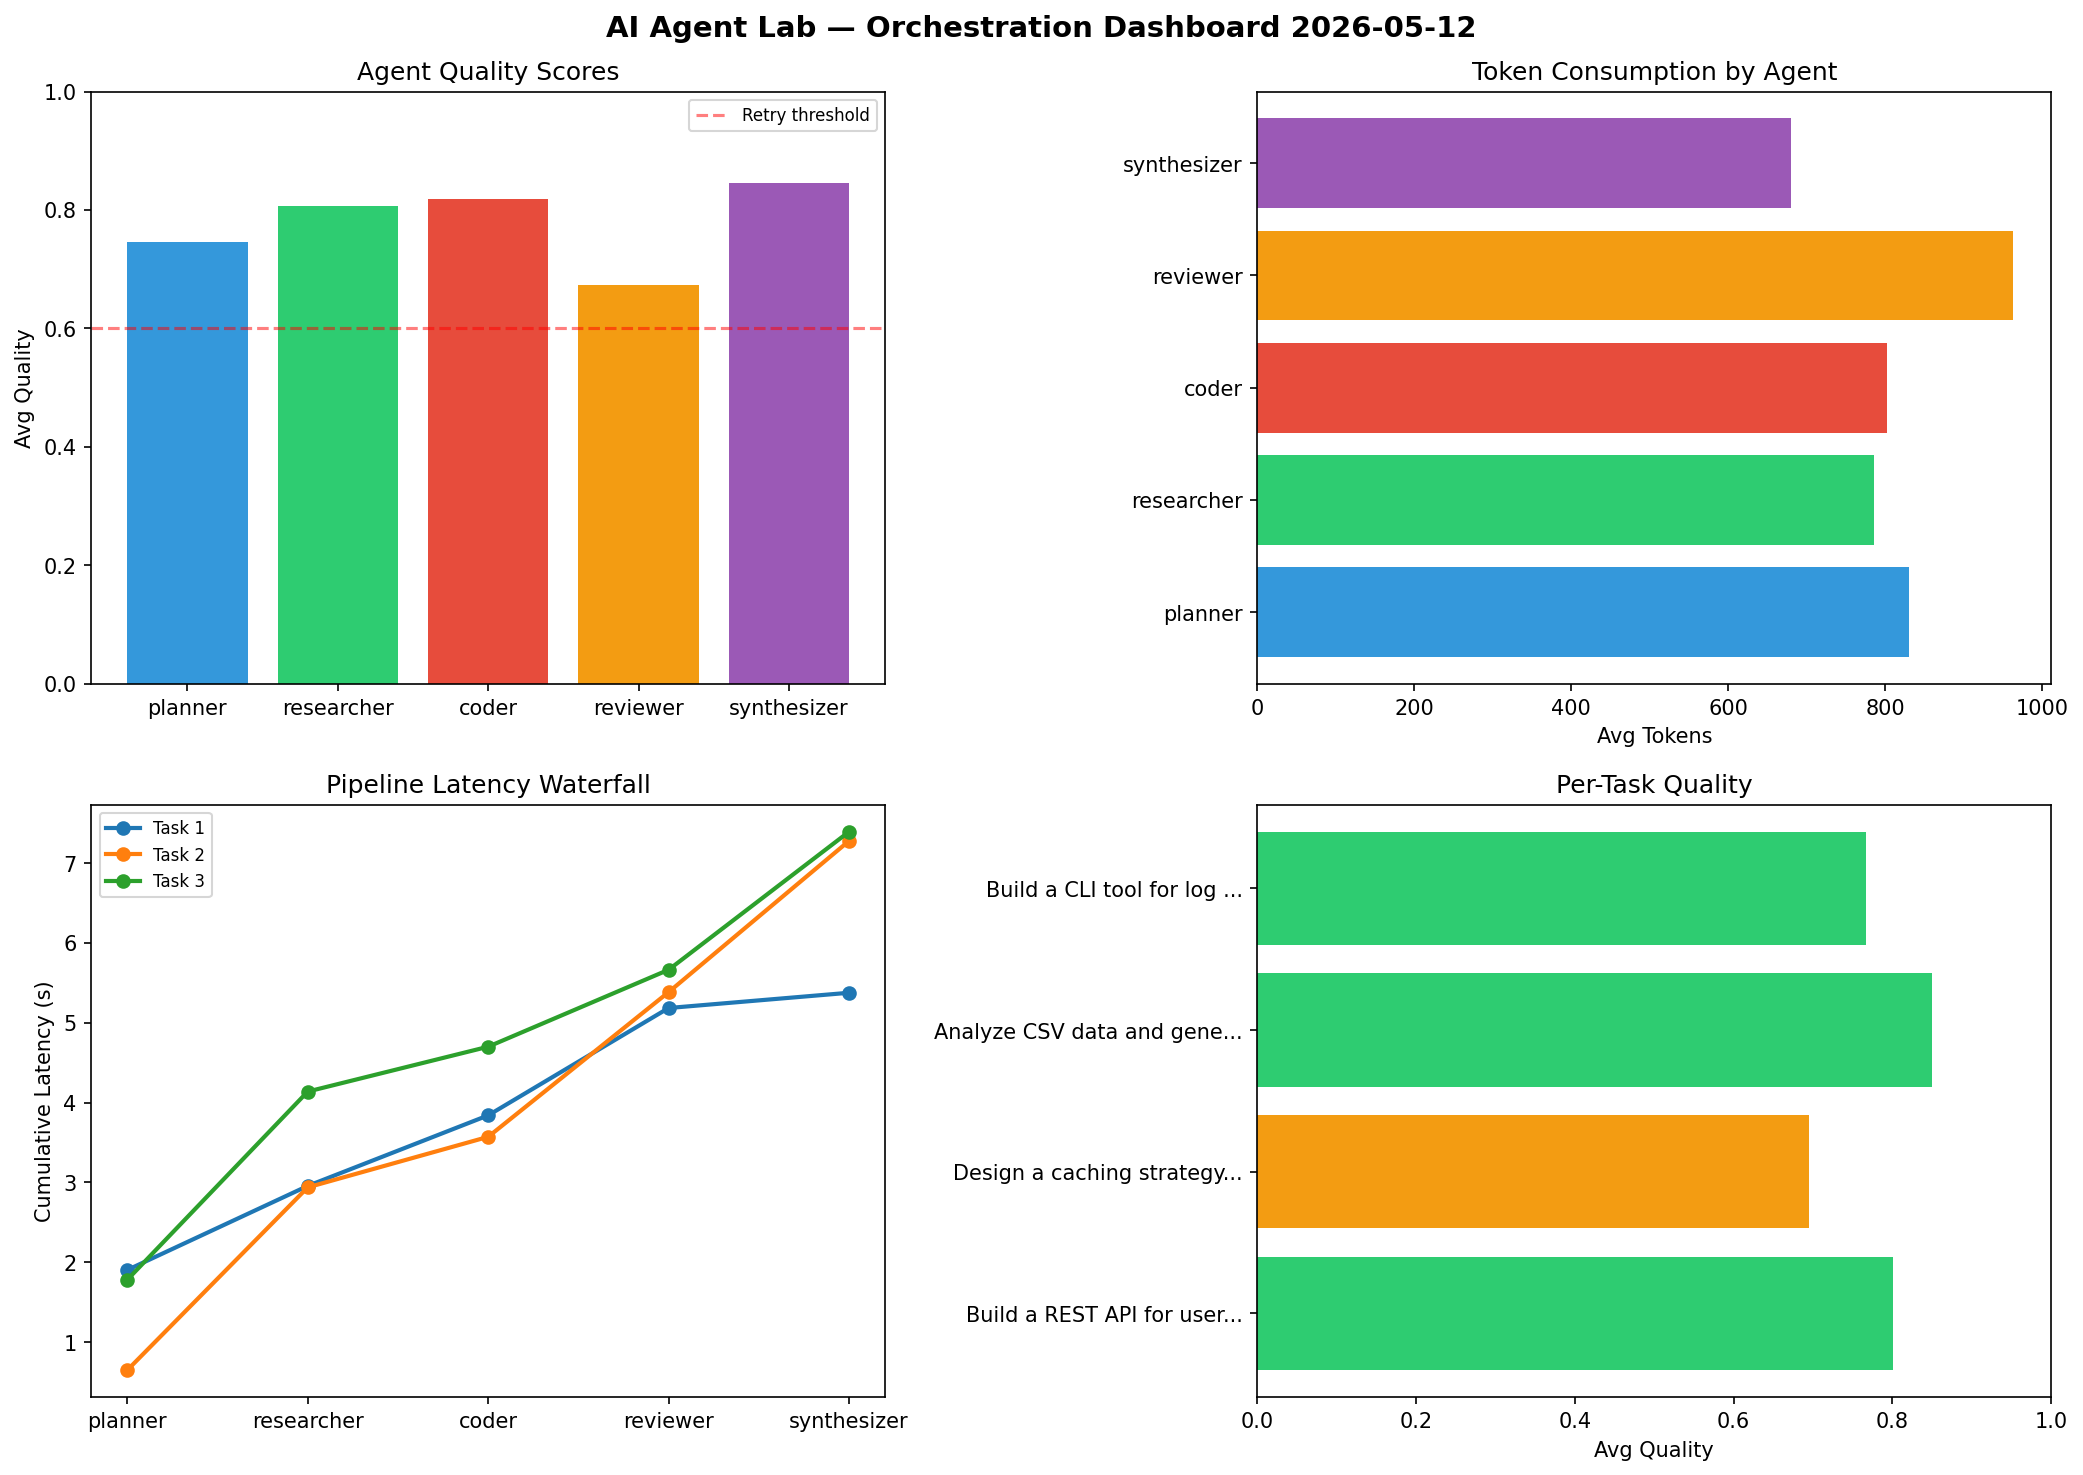
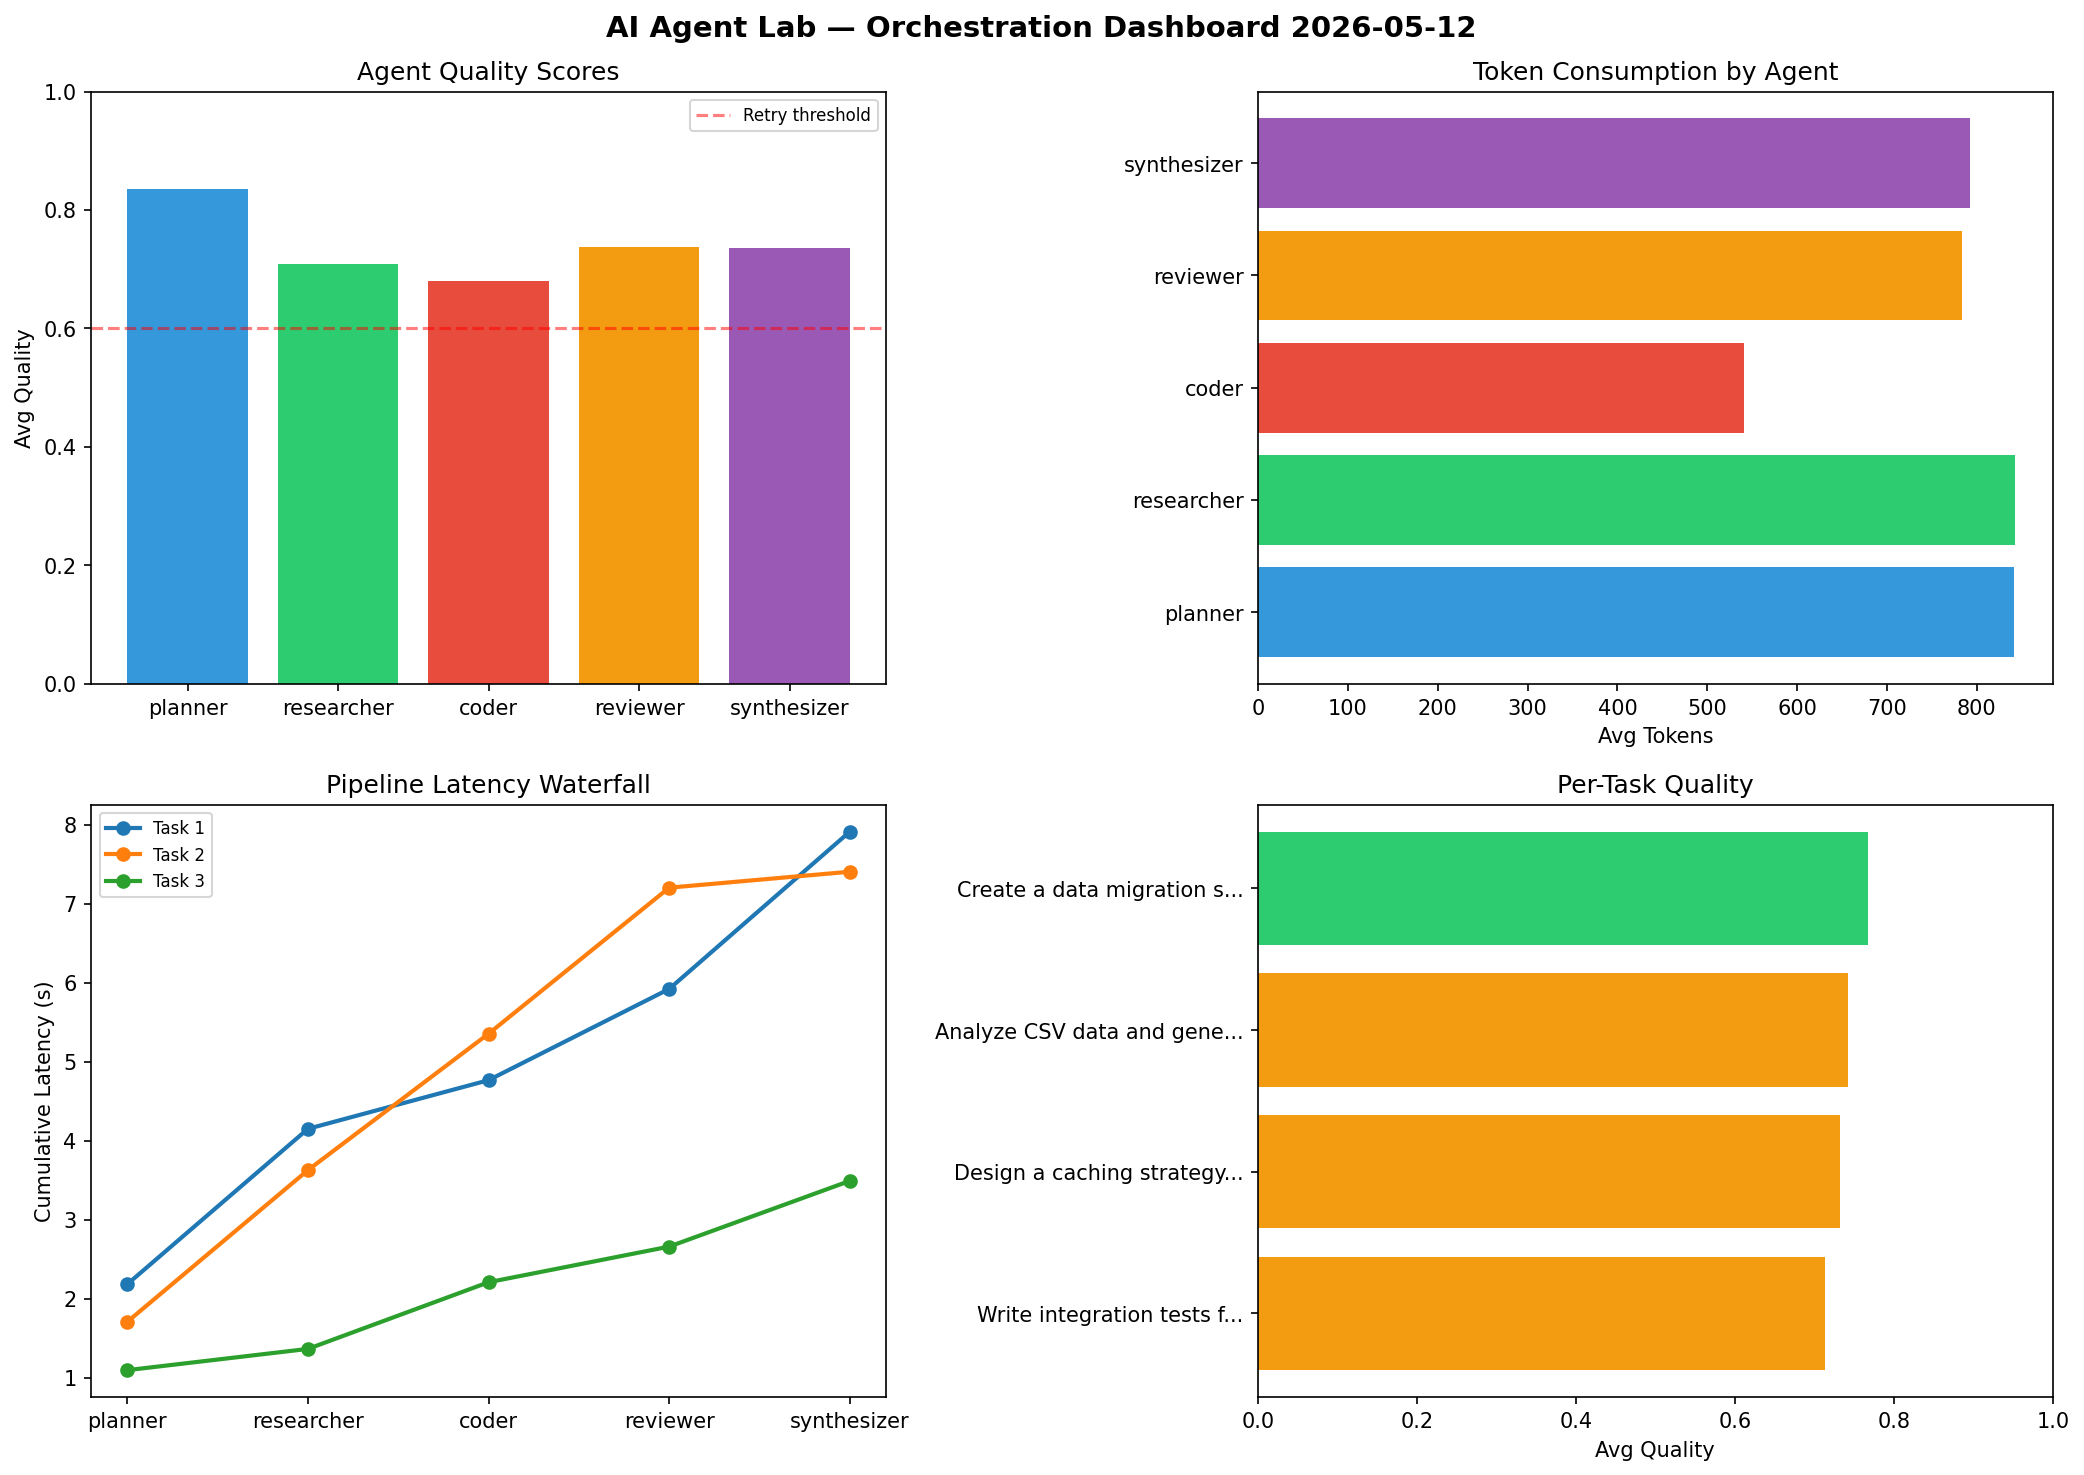
ai-agent-lab: orchestration run 2026-05-12T21:43

diff --git a/logs/2026-05-12.md b/logs/2026-05-12.md
@@ -1,6 +1,6 @@
 # AI Agent Lab — Orchestration Report 2026-05-12
 
-**Run ID:** `323e6d0a11` | **Tasks:** 4 | **Avg Quality:** 0.778
+**Run ID:** `23becf74ec` | **Tasks:** 4 | **Avg Quality:** 0.739
 
 ![Dashboard](2026-05-12_dashboard.png)
 
@@ -8,52 +8,52 @@
 
 | Metric | Value |
 |--------|-------|
-| avg_latency | 7.365 |
-| total_tokens | 16245 |
-| avg_quality | 0.778 |
+| avg_latency | 6.294 |
+| total_tokens | 15198 |
+| avg_quality | 0.739 |
 
 ## Delta vs Yesterday
 
 | Metric | Today | Yesterday | Change |
 |--------|-------|-----------|--------|
-| avg_latency | 7.365 | 6.018 | 📈 22.4% |
-| total_tokens | 16245 | 15438 | 📈 5.2% |
-| avg_quality | 0.778 | 0.785 | 📉 -0.9% |
+| avg_latency | 6.294 | 6.018 | 📈 4.6% |
+| total_tokens | 15198 | 15438 | 📉 -1.6% |
+| avg_quality | 0.739 | 0.785 | 📉 -5.9% |
 
 ## Pipeline Results
 
-### Build a REST API for user authentication
+### Write integration tests for payment processing module
 | Agent | Quality | Latency | Tokens | Status |
 |-------|---------|---------|--------|--------|
-| planner | 0.747 | 1.903s | 762 | success |
-| researcher | 0.954 | 1.053s | 922 | success |
-| coder | 0.672 | 0.884s | 959 | success |
-| reviewer | 0.661 | 1.345s | 874 | success |
-| synthesizer | 0.97 | 0.191s | 653 | success |
+| planner | 0.561 | 2.186s | 1004 | needs_retry |
+| researcher | 0.605 | 1.967s | 879 | success |
+| coder | 0.733 | 0.616s | 487 | success |
+| reviewer | 0.772 | 1.155s | 806 | success |
+| synthesizer | 0.9 | 1.991s | 897 | success |
 
 ### Design a caching strategy for high-traffic endpoints
 | Agent | Quality | Latency | Tokens | Status |
 |-------|---------|---------|--------|--------|
-| planner | 0.758 | 0.648s | 806 | success |
-| researcher | 0.519 | 2.29s | 701 | needs_retry |
-| coder | 0.692 | 0.633s | 556 | success |
-| reviewer | 0.779 | 1.813s | 937 | success |
-| synthesizer | 0.727 | 1.895s | 789 | success |
+| planner | 0.972 | 1.71s | 1063 | success |
+| researcher | 0.52 | 1.92s | 909 | needs_retry |
+| coder | 0.676 | 1.727s | 760 | success |
+| reviewer | 0.929 | 1.849s | 268 | success |
+| synthesizer | 0.565 | 0.202s | 813 | needs_retry |
 
 ### Analyze CSV data and generate statistical summary
 | Agent | Quality | Latency | Tokens | Status |
 |-------|---------|---------|--------|--------|
-| planner | 0.846 | 1.78s | 998 | success |
-| researcher | 0.814 | 2.358s | 646 | success |
-| coder | 0.938 | 0.562s | 1043 | success |
-| reviewer | 0.686 | 0.964s | 843 | success |
-| synthesizer | 0.964 | 1.73s | 774 | success |
+| planner | 0.92 | 1.098s | 585 | success |
+| researcher | 0.818 | 0.269s | 949 | success |
+| coder | 0.502 | 0.844s | 422 | needs_retry |
+| reviewer | 0.641 | 0.451s | 966 | success |
+| synthesizer | 0.835 | 0.832s | 740 | success |
 
-### Build a CLI tool for log analysis
+### Create a data migration script for schema v2
 | Agent | Quality | Latency | Tokens | Status |
 |-------|---------|---------|--------|--------|
-| planner | 0.633 | 1.637s | 757 | success |
-| researcher | 0.943 | 0.937s | 873 | success |
-| coder | 0.972 | 2.206s | 649 | success |
-| reviewer | 0.565 | 2.143s | 1199 | needs_retry |
-| synthesizer | 0.722 | 2.488s | 504 | success |
+| planner | 0.887 | 0.193s | 715 | success |
+| researcher | 0.891 | 1.768s | 632 | success |
+| coder | 0.806 | 2.284s | 492 | success |
+| reviewer | 0.609 | 0.135s | 1092 | success |
+| synthesizer | 0.646 | 1.98s | 719 | success |
